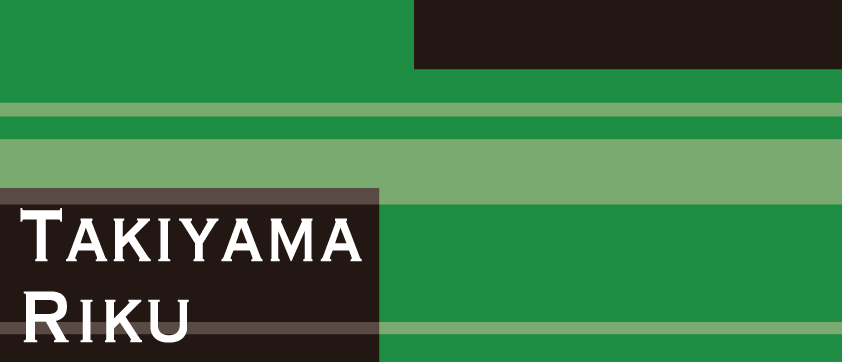
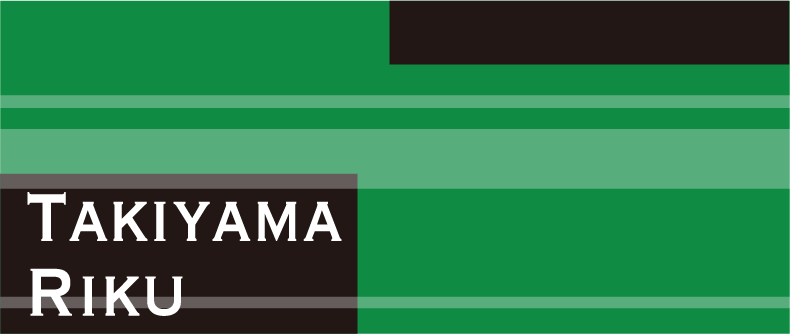
image変更

diff --git a/index.html b/index.html
@@ -21,7 +21,7 @@
       <div class="inner">
         <div id="menu_btn"></div>
         <p id="header_logo">
-          <a href="./index.html"><img src="./images/logo.svg" alt="" /></a>
+          <a href="./index.html"><img src="./images/logo.png" alt="" /></a>
         </p>
         <ul id="global_menu">
           <li><a href="./profile.html">profile</a></li>

diff --git a/css/style.css b/css/style.css
@@ -79,11 +79,11 @@ header a {
 }
 
 header .inner {
-  background-color: #08871d;
+  background-color: #000;
   position: relative;
   display: flex;
   justify-content: space-between;
-  padding: 338px 100px;
+  padding: 25px 50px;
   box-shadow: 0px 0px 10px rgba(0, 0, 0, 0.35);
   border-radius: 0px;
   margin: 0px;
